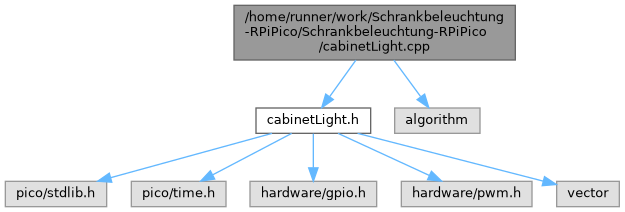
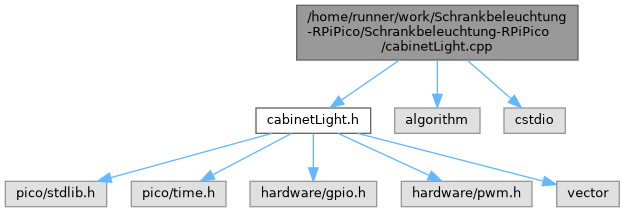
deploy: e4336c026438292a33028a944d111d4e10a8eb6c

diff --git a/html/cabinetLight_8h_source.html b/html/cabinetLight_8h_source.html
@@ -124,7 +124,7 @@ $(document).ready(function() { init_codefold(0); });
 <div class="line"><a id="l00090" name="l00090"></a><span class="lineno">   90</span> </div>
 <div class="line"><a id="l00091" name="l00091"></a><span class="lineno">   91</span><span class="preprocessor">#endif </span><span class="comment">// CABINET_LIGHT_H</span></div>
 <div class="ttc" id="aclassCabinetLight_html"><div class="ttname"><a href="classCabinetLight.html">CabinetLight</a></div><div class="ttdoc">Klasse für die CabinetLight.</div><div class="ttdef"><b>Definition</b> cabinetLight.h:34</div></div>
-<div class="ttc" id="aclassCabinetLight_html_a1748359b48567c45ce75fedb6d676e65"><div class="ttname"><a href="classCabinetLight.html#a1748359b48567c45ce75fedb6d676e65">CabinetLight::gpioCallback</a></div><div class="ttdeci">static void gpioCallback(uint gpio, uint32_t events)</div><div class="ttdoc">Statischer GPIO-Interrupt-Handler (leitet an Instanz weiter)</div><div class="ttdef"><b>Definition</b> cabinetLight.cpp:188</div></div>
+<div class="ttc" id="aclassCabinetLight_html_a1748359b48567c45ce75fedb6d676e65"><div class="ttname"><a href="classCabinetLight.html#a1748359b48567c45ce75fedb6d676e65">CabinetLight::gpioCallback</a></div><div class="ttdeci">static void gpioCallback(uint gpio, uint32_t events)</div><div class="ttdoc">Statischer GPIO-Interrupt-Handler (leitet an Instanz weiter)</div><div class="ttdef"><b>Definition</b> cabinetLight.cpp:237</div></div>
 <div class="ttc" id="aclassCabinetLight_html_a384b1934fb88dac063be455a381b1a4e"><div class="ttname"><a href="classCabinetLight.html#a384b1934fb88dac063be455a381b1a4e">CabinetLight::instance</a></div><div class="ttdeci">static CabinetLight * instance</div><div class="ttdoc">Singleton-Instanz für Callback.</div><div class="ttdef"><b>Definition</b> cabinetLight.h:37</div></div>
 <div class="ttc" id="aclassCabinetLight_html_a51c38e2efae4a2f15c8c65029d0f072e"><div class="ttname"><a href="classCabinetLight.html#a51c38e2efae4a2f15c8c65029d0f072e">CabinetLight::lastTriggerTime</a></div><div class="ttdeci">std::vector&lt; absolute_time_t &gt; lastTriggerTime</div><div class="ttdoc">Letzte Triggerzeit für jeden Sensor.</div><div class="ttdef"><b>Definition</b> cabinetLight.h:46</div></div>
 <div class="ttc" id="aclassCabinetLight_html_a5cdd0196d1ad59e576792ba756d82b90"><div class="ttname"><a href="classCabinetLight.html#a5cdd0196d1ad59e576792ba756d82b90">CabinetLight::SENSOR_PINS</a></div><div class="ttdeci">const std::vector&lt; uint8_t &gt; SENSOR_PINS</div><div class="ttdoc">GPIO-Pins für die Sensoren.</div><div class="ttdef"><b>Definition</b> cabinetLight.h:42</div></div>
@@ -133,7 +133,7 @@ $(document).ready(function() { init_codefold(0); });
 <div class="ttc" id="aclassCabinetLight_html_add9614a283983210e94dadc3ff3aa415"><div class="ttname"><a href="classCabinetLight.html#add9614a283983210e94dadc3ff3aa415">CabinetLight::DEV_COUNT</a></div><div class="ttdeci">const uint8_t DEV_COUNT</div><div class="ttdoc">Anzahl der LEDs.</div><div class="ttdef"><b>Definition</b> cabinetLight.h:40</div></div>
 <div class="ttc" id="aclassCabinetLight_html_ae6706c7d678752d7558d4f1612c0f80e"><div class="ttname"><a href="classCabinetLight.html#ae6706c7d678752d7558d4f1612c0f80e">CabinetLight::PWM_WRAP</a></div><div class="ttdeci">const uint16_t PWM_WRAP</div><div class="ttdoc">16-bit PWM</div><div class="ttdef"><b>Definition</b> cabinetLight.h:43</div></div>
 <div class="ttc" id="aclassCabinetLight_html_ae8da712cfd25e1e20be2c4f3f673c196"><div class="ttname"><a href="classCabinetLight.html#ae8da712cfd25e1e20be2c4f3f673c196">CabinetLight::DEBOUNCE_MS</a></div><div class="ttdeci">const uint16_t DEBOUNCE_MS</div><div class="ttdoc">Sperrzeit nach Interrupt.</div><div class="ttdef"><b>Definition</b> cabinetLight.h:44</div></div>
-<div class="ttc" id="aclassCabinetLight_html_af29f59fd1cad23cacad441d8b27dbd87"><div class="ttname"><a href="classCabinetLight.html#af29f59fd1cad23cacad441d8b27dbd87">CabinetLight::CabinetLight</a></div><div class="ttdeci">CabinetLight()</div><div class="ttdoc">Konstruktor der CabinetLight-Klasse Initialisiert die GPIO-Pins und PWM-Ausgänge für die LEDs.</div><div class="ttdef"><b>Definition</b> cabinetLight.cpp:29</div></div>
+<div class="ttc" id="aclassCabinetLight_html_af29f59fd1cad23cacad441d8b27dbd87"><div class="ttname"><a href="classCabinetLight.html#af29f59fd1cad23cacad441d8b27dbd87">CabinetLight::CabinetLight</a></div><div class="ttdeci">CabinetLight()</div><div class="ttdoc">Konstruktor der CabinetLight-Klasse Initialisiert die GPIO-Pins und PWM-Ausgänge für die LEDs.</div><div class="ttdef"><b>Definition</b> cabinetLight.cpp:30</div></div>
 </div><!-- fragment --></div><!-- contents -->
 <!-- start footer part -->
 <hr class="footer"/><address class="footer"><small>

diff --git a/html/cabinetLight_8cpp.html b/html/cabinetLight_8cpp.html
@@ -77,16 +77,19 @@ $(function() {
 <a href="#details">More...</a></p>
 <div class="textblock"><code>#include &quot;<a class="el" href="cabinetLight_8h_source.html">cabinetLight.h</a>&quot;</code><br />
 <code>#include &lt;algorithm&gt;</code><br />
+<code>#include &lt;cstdio&gt;</code><br />
 </div><div class="textblock"><div class="dynheader">
 Include dependency graph for cabinetLight.cpp:</div>
 <div class="dyncontent">
 <div class="center"><img src="cabinetLight_8cpp__incl.png" border="0" usemap="#a_2home_2runner_2work_2Schrankbeleuchtung-RPiPico_2Schrankbeleuchtung-RPiPico_2cabinetLight_8cpp" alt=""/></div>
 <map name="a_2home_2runner_2work_2Schrankbeleuchtung-RPiPico_2Schrankbeleuchtung-RPiPico_2cabinetLight_8cpp" id="a_2home_2runner_2work_2Schrankbeleuchtung-RPiPico_2Schrankbeleuchtung-RPiPico_2cabinetLight_8cpp">
-<area shape="rect" title="Implementierung der Steuerlogik für die Schrankbeleuchtung." alt="" coords="234,5,515,60"/>
+<area shape="rect" title="Implementierung der Steuerlogik für die Schrankbeleuchtung." alt="" coords="297,5,578,60"/>
 <area shape="rect" href="cabinetLight_8h.html" title="Zentrale Klasse zur Steuerung der Schrankbeleuchtung." alt="" coords="256,108,371,133"/>
-<area shape="poly" title=" " alt="" coords="358,62,332,98,328,95,354,59"/>
+<area shape="poly" title=" " alt="" coords="401,62,343,102,340,98,398,58"/>
 <area shape="rect" title=" " alt="" coords="395,108,480,133"/>
-<area shape="poly" title=" " alt="" coords="396,58,423,95,418,98,392,62"/>
+<area shape="poly" title=" " alt="" coords="440,60,440,94,435,94,435,60"/>
+<area shape="rect" title=" " alt="" coords="504,108,565,133"/>
+<area shape="poly" title=" " alt="" coords="469,58,513,97,509,101,465,62"/>
 <area shape="rect" title=" " alt="" coords="5,181,107,207"/>
 <area shape="poly" title=" " alt="" coords="273,136,111,180,110,175,271,131"/>
 <area shape="rect" title=" " alt="" coords="131,181,226,207"/>

diff --git a/html/main_8cpp.html b/html/main_8cpp.html
@@ -79,14 +79,17 @@ $(function() {
 <p>Firmware-Einstiegspunkt für die automatisierte Schrankbeleuchtung.  
 <a href="#details">More...</a></p>
 <div class="textblock"><code>#include &quot;<a class="el" href="cabinetLight_8h_source.html">cabinetLight.h</a>&quot;</code><br />
+<code>#include &lt;cstdio&gt;</code><br />
 </div><div class="textblock"><div class="dynheader">
 Include dependency graph for main.cpp:</div>
 <div class="dyncontent">
 <div class="center"><img src="main_8cpp__incl.png" border="0" usemap="#a_2home_2runner_2work_2Schrankbeleuchtung-RPiPico_2Schrankbeleuchtung-RPiPico_2main_8cpp" alt=""/></div>
 <map name="a_2home_2runner_2work_2Schrankbeleuchtung-RPiPico_2Schrankbeleuchtung-RPiPico_2main_8cpp" id="a_2home_2runner_2work_2Schrankbeleuchtung-RPiPico_2Schrankbeleuchtung-RPiPico_2main_8cpp">
-<area shape="rect" title="Firmware&#45;Einstiegspunkt für die automatisierte Schrankbeleuchtung." alt="" coords="149,5,477,45"/>
+<area shape="rect" title="Firmware&#45;Einstiegspunkt für die automatisierte Schrankbeleuchtung." alt="" coords="205,5,533,45"/>
 <area shape="rect" href="cabinetLight_8h.html" title="Zentrale Klasse zur Steuerung der Schrankbeleuchtung." alt="" coords="256,93,371,119"/>
-<area shape="poly" title=" " alt="" coords="316,46,316,79,311,79,311,46"/>
+<area shape="poly" title=" " alt="" coords="358,47,332,84,327,80,354,44"/>
+<area shape="rect" title=" " alt="" coords="395,93,456,119"/>
+<area shape="poly" title=" " alt="" coords="385,44,411,80,407,84,381,47"/>
 <area shape="rect" title=" " alt="" coords="5,167,107,192"/>
 <area shape="poly" title=" " alt="" coords="273,121,111,166,110,160,271,116"/>
 <area shape="rect" title=" " alt="" coords="131,167,226,192"/>
